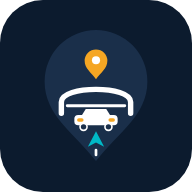
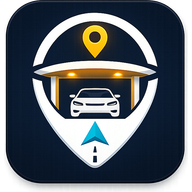
feat: ご提供のロゴ・アイコンを取り込み、再現版を廃止
assets/brand/source/ に保存いただいた logo.png / icon.png を取り込み、
図柄には手を加えず各サイズへ書き出した。

判明した点:
- 両ファイルとも透過済み（logo 92.7% / icon 74.1% が完全透過）。
  プレビューで灰色に見えたのは透過部分の表示によるもの
- アイコンのタイル地色は rgb(11,25,47)。角の丸みで生じる隙間を
  同じ色で埋め、正方形として書き出す
- ストア提出用は透過不可のため icon-1024-opaque.png を別途生成

書き出し:
- logo.png (1062x368) / logo-h160 / logo-h80 / logo-h40
- icon-1024/512/192/180/64/32.png + icon-1024-opaque.png

適用:
- ヘッダーのアイコンとログイン画面のロゴを差し替え
- ロゴの文字色は濃紺のみで暗いテーマの地色に埋もれるため、
  色を変えず明るい下地カードに載せて可読性を確保した

撤去:
- 当方が描き起こした再現版（build-brand.mjs / mark.mjs と
  その生成物）を削除。ご提供の原本を上書きする事故を防ぐため

diff --git a/admin/src/app/login/page.tsx b/admin/src/app/login/page.tsx
@@ -37,17 +37,30 @@ export default async function LoginPage({ searchParams }: PageProps<'/login'>) {
 
       <div className="flex flex-1 items-center justify-center pb-24">
         <div className="w-full max-w-sm">
-          {/* ログイン画面は余白があるため、横組みロゴをそのまま使う */}
+          {/*
+            ログイン画面は余白があるため、横組みロゴをそのまま使う。
+
+            ロゴの文字色は濃紺のみで、暗いテーマの地色に埋もれてしまう。
+            図柄には手を加えない方針のため、色を変えるのではなく
+            明るい下地カードに載せて読めるようにしている。
+          */}
           <div className="mb-8 flex flex-col items-center text-center">
-            <Image
-              src={theme === 'dark' ? '/brand/logo-on-dark.png' : '/brand/logo.png'}
-              alt={t.brand.name}
-              width={2461}
-              height={804}
-              className="h-auto w-full max-w-[320px]"
-              priority
-            />
-            <p className="mt-3 text-sm text-text-muted">{t.brand.sub}</p>
+            <div
+              className={
+                'flex w-full max-w-[340px] items-center justify-center rounded-xl ' +
+                (theme === 'dark' ? 'bg-[#f4f6f8] px-6 py-5' : '')
+              }
+            >
+              <Image
+                src="/brand/logo-h160.png"
+                alt={t.brand.name}
+                width={462}
+                height={160}
+                className="h-auto w-full"
+                priority
+              />
+            </div>
+            <p className="mt-4 text-sm text-text-muted">{t.brand.sub}</p>
           </div>
 
           <div className="rounded-2xl border border-border bg-surface/90 p-6 shadow-sm backdrop-blur">
